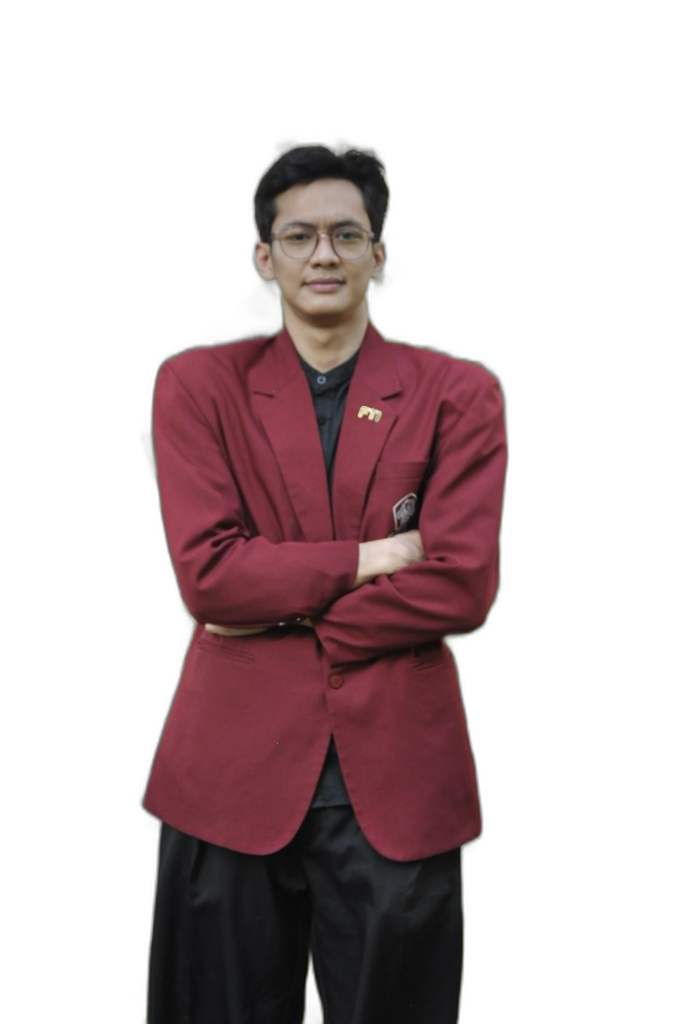
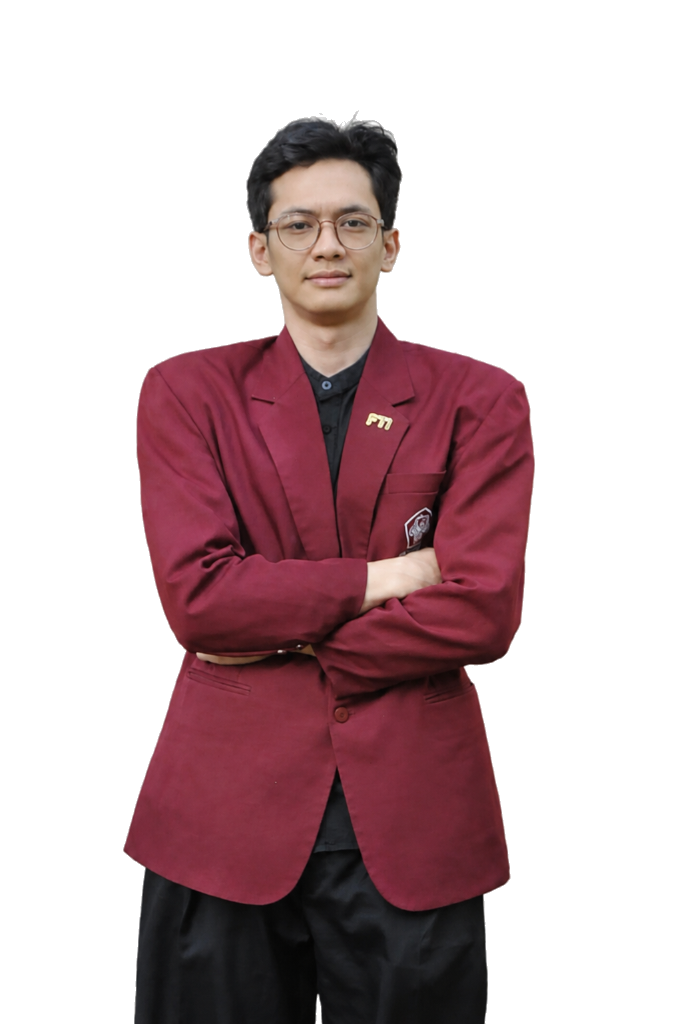
feat(hero): integrate high-res formal portrait with clean cutout, refine scrapbook annotations, and update Saung Riung project screenshot

diff --git a/src/styles/global.css b/src/styles/global.css
@@ -409,13 +409,15 @@ button:focus-visible,
 }
 
 .sticker-cutout {
-  filter: drop-shadow(3px 0 0 #fff) 
-          drop-shadow(-3px 0 0 #fff) 
-          drop-shadow(0 3px 0 #fff) 
-          drop-shadow(0 -3px 0 #fff) 
-          drop-shadow(2px 2px 0 #fff) 
-          drop-shadow(-2px -2px 0 #fff) 
-          drop-shadow(0 12px 22px rgba(0, 0, 0, 0.35));
+  filter: drop-shadow(4px 0 0 #ffffff) 
+          drop-shadow(-4px 0 0 #ffffff) 
+          drop-shadow(0 4px 0 #ffffff) 
+          drop-shadow(0 -4px 0 #ffffff) 
+          drop-shadow(3px 3px 0 #ffffff) 
+          drop-shadow(-3px -3px 0 #ffffff) 
+          drop-shadow(3px -3px 0 #ffffff) 
+          drop-shadow(-3px 3px 0 #ffffff) 
+          drop-shadow(0 14px 28px rgba(0, 0, 0, 0.32));
 }
 
 .button-solid {
@@ -530,7 +532,7 @@ button:focus-visible,
 }
 
 .hero-summary {
-  max-width: 440px;
+  max-width: 380px;
   font-size: clamp(13px, 1vw, 15px);
   line-height: 1.6;
   color: rgba(22, 22, 21, 0.88);
@@ -546,12 +548,12 @@ button:focus-visible,
 
 .hero-hand {
   position: absolute;
-  right: -40px;
-  bottom: 28%;
+  right: clamp(-20px, -1.8vw, 0px);
+  bottom: 26%;
   display: flex;
   align-items: center;
   gap: 8px;
-  transform: rotate(-8deg);
+  transform: rotate(-6deg);
   z-index: 12;
 }
 
@@ -572,7 +574,7 @@ button:focus-visible,
 /* Hero Art (Right Side) */
 .hero-art {
   position: relative;
-  min-height: clamp(520px, 46vw, 680px);
+  min-height: clamp(520px, 46vw, 660px);
   align-self: stretch;
   isolation: isolate;
   overflow: visible;
@@ -581,9 +583,10 @@ button:focus-visible,
 .hero-blue-sheet {
   position: absolute;
   top: -72px;
-  right: -60px;
-  width: 110%;
-  height: 115%;
+  bottom: 0;
+  right: -50px;
+  width: 108%;
+  height: calc(100% + 72px);
   background-color: var(--scrap-blue);
   background-image: url('/assets/paper-blue.webp');
   background-size: 512px;
@@ -648,7 +651,7 @@ button:focus-visible,
 
 .hero-untar-tag {
   position: absolute;
-  top: clamp(290px, 29vw, 385px);
+  top: clamp(270px, 28vw, 360px);
   right: clamp(25px, 3.5vw, 55px);
   display: flex;
   align-items: center;
@@ -663,18 +666,27 @@ button:focus-visible,
 
 .hero-floating-crown {
   position: absolute;
-  top: clamp(55px, 7vw, 95px);
-  left: clamp(80px, 9.5vw, 135px);
+  top: 4%;
+  left: 47%;
+  transform: translateX(-50%) rotate(-12deg);
   z-index: 6;
-  transform: rotate(-14deg);
+  pointer-events: none;
 }
 
 .hero-cutout {
   position: absolute;
   bottom: 0;
-  left: clamp(35px, 4.5vw, 85px);
+  left: clamp(40px, 5.5vw, 95px);
   width: clamp(285px, 28vw, 395px);
   z-index: 4;
+  line-height: 0;
+}
+
+.hero-cutout img {
+  display: block;
+  width: 100%;
+  height: auto;
+  vertical-align: bottom;
 }
 
 .hero-flower-wrap {
@@ -732,29 +744,6 @@ button:focus-visible,
   right: -6px;
   transform: rotate(8deg);
   z-index: 10;
-}
-
-.hero-airplane-wrap {
-  position: absolute;
-  top: 18px;
-  left: 22%;
-  z-index: 5;
-  transform: rotate(-12deg);
-}
-
-.hero-polaroid-arrow {
-  position: absolute;
-  top: 72px;
-  right: clamp(120px, 14vw, 175px);
-  z-index: 5;
-}
-
-.hero-floating-crown {
-  position: absolute;
-  top: 24%;
-  right: clamp(140px, 16vw, 210px);
-  z-index: 6;
-  transform: rotate(-14deg);
 }
 
 /* ================= ABOUT SECTION ================= */

diff --git a/src/sections/Hero.tsx b/src/sections/Hero.tsx
@@ -190,16 +190,16 @@ export function Hero() {
             <span>UNTAR</span>
           </div>
 
-          {/* Crown doodle floating near Akmal's head */}
-          <div className="hero-floating-crown" aria-hidden="true">
-            <CrownDoodle width={36} height={28} color="#d5f738" />
-          </div>
-
           {/* Formal Cutout of Akmal in UNTAR Blazer */}
           <div className="hero-cutout">
+            {/* Crown doodle floating directly above Akmal's head */}
+            <div className="hero-floating-crown" aria-hidden="true">
+              <CrownDoodle width={36} height={28} color="#d5f738" />
+            </div>
+
             <img
               src={`${import.meta.env.BASE_URL}assets/akmal-formal-cutout.png`}
-              alt="Akmal Fadhlul Rohman — Informatics Engineering UNTAR"
+              alt="Akmal Fadhlul Rohman • Informatics Engineering UNTAR"
               className="sticker-cutout"
             />
           </div>

diff --git a/src/data/site.ts b/src/data/site.ts
@@ -92,7 +92,7 @@ export const proyek: Proyek[] = [
     id: 'saungriung',
     judul: 'Saung Riung Web Portal',
     subjudul: 'Komunitas Warga RT 009 / RW 002',
-    gambar: asset('assets/projects/project-saungriung.jpg'),
+    gambar: asset('assets/projects/project-saungriung.png'),
     stack: ['React', 'Vite', 'Node.js', 'Express.js', 'REST API'],
     deskripsi: 'Platform website komunitas warga RT 009 / RW 002 Koja. Menjadi pusat transparansi pengumuman lingkungan, kalender agenda gotong royong dan pertemuan warga, serta kanal komunikasi warga dengan arsitektur REST API terpisah antara frontend (React Vite) dan backend (Express Node.js) yang dideploy di Vercel.',
     github: 'https://github.com/akmals06/saungriung',
